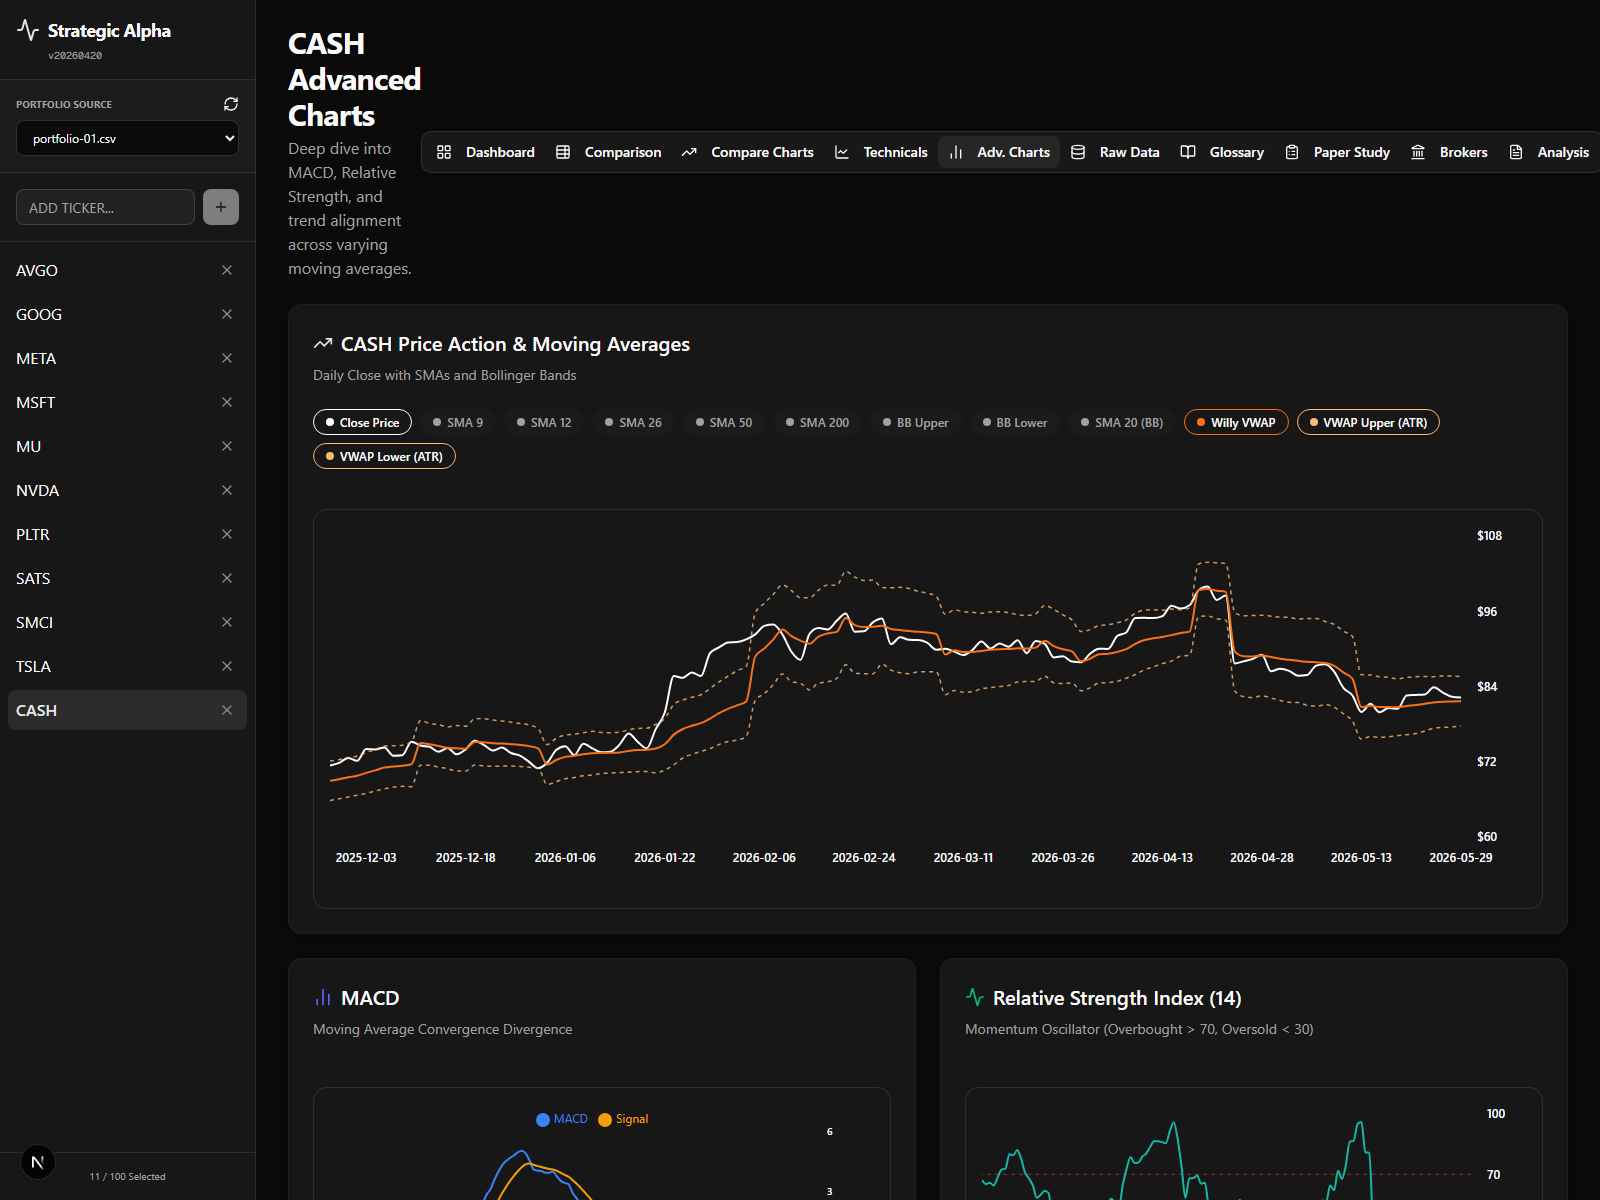
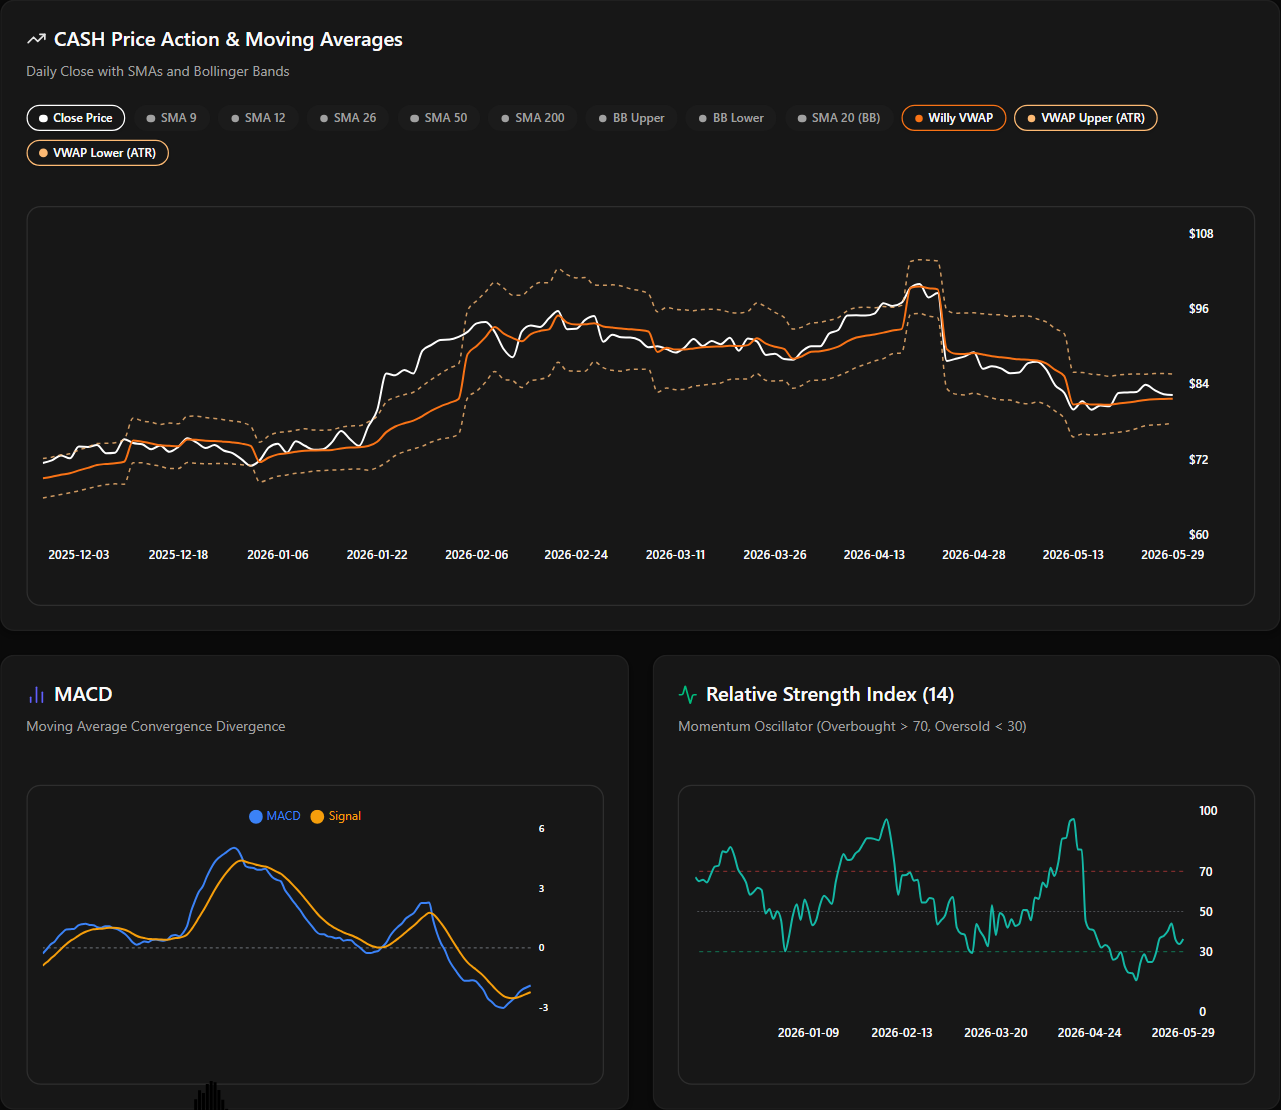
feat(analysis): implement Save Report to Markdown and optimize Playwright screenshots zoom and selector

diff --git a/frontend/src/components/AnalysisPanel.tsx b/frontend/src/components/AnalysisPanel.tsx
@@ -5,7 +5,7 @@ import { API_BASE_URL } from '@/lib/api';
 import { 
     Loader2, Play, CheckCircle, RefreshCw, AlertTriangle, 
     TrendingUp, TrendingDown, Info, Maximize2, X, ClipboardList,
-    Layers, LayoutList, Calendar, CheckSquare
+    Layers, LayoutList, Calendar, CheckSquare, FileText
 } from 'lucide-react';
 import { StockAnalysisItem, PortfolioAnalysisResponse } from '@/lib/types';
 
@@ -21,9 +21,54 @@ export function AnalysisPanel() {
     const [imageSalt, setImageSalt] = useState<number>(0);
     const [imageStatus, setImageStatus] = useState<Record<string, 'loading' | 'loaded' | 'error'>>({});
 
+    // Save report states
+    const [showSaveModal, setShowSaveModal] = useState<boolean>(false);
+    const [saveFilename, setSaveFilename] = useState<string>('Portfolio_Analysis_Report.md');
+    const [savingReport, setSavingReport] = useState<boolean>(false);
+    const [toastMessage, setToastMessage] = useState<{ text: string; type: 'success' | 'error' } | null>(null);
+
     useEffect(() => {
         setImageStatus({});
     }, [imageSalt, analysisData]);
+
+    useEffect(() => {
+        if (toastMessage) {
+            const timer = setTimeout(() => setToastMessage(null), 4000);
+            return () => clearTimeout(timer);
+        }
+    }, [toastMessage]);
+
+    const handleSaveReport = async () => {
+        try {
+            setSavingReport(true);
+            let finalFilename = saveFilename.trim();
+            if (!finalFilename.toLowerCase().endsWith('.md')) {
+                finalFilename += '.md';
+            }
+
+            const res = await fetch(`${API_BASE_URL}/api/save-analysis-report`, {
+                method: 'POST',
+                headers: {
+                    'Content-Type': 'application/json',
+                },
+                body: JSON.stringify({ filename: finalFilename }),
+            });
+
+            if (res.ok) {
+                const data = await res.json();
+                setToastMessage({ text: data.message || `Saved to ${finalFilename}`, type: 'success' });
+                setShowSaveModal(false);
+            } else {
+                const errData = await res.json();
+                setToastMessage({ text: errData.detail || 'Failed to save analysis report.', type: 'error' });
+            }
+        } catch (err) {
+            console.error("Error saving report", err);
+            setToastMessage({ text: 'Network error or server down.', type: 'error' });
+        } finally {
+            setSavingReport(false);
+        }
+    };
 
     const timerRef = useRef<NodeJS.Timeout | null>(null);
     const pollRef = useRef<NodeJS.Timeout | null>(null);
@@ -218,6 +263,20 @@ export function AnalysisPanel() {
                                 <Loader2 className="w-3.5 h-3.5 animate-spin text-cyan-500" />
                                 Elapsed: {elapsedTime}s
                             </div>
+                        )}
+                        {analysisData && !loading && (
+                            <Button 
+                                variant="outline"
+                                className="h-10 px-4 border-cyan-500/30 bg-cyan-500/5 hover:bg-cyan-500/10 text-cyan-400 hover:text-cyan-300 font-semibold transition-all duration-300 flex items-center gap-2"
+                                onClick={() => {
+                                    const base = selectedFile.replace(/\.csv$/, '');
+                                    setSaveFilename(`${base}_Analysis_Report.md`);
+                                    setShowSaveModal(true);
+                                }}
+                            >
+                                <FileText className="w-4 h-4" />
+                                Save Report
+                            </Button>
                         )}
                         <Button 
                             variant="default"
@@ -468,6 +527,91 @@ export function AnalysisPanel() {
                                 className="max-w-full max-h-[75vh] object-contain"
                             />
                         </div>
+                    </div>
+                </div>
+            )}
+
+            {/* Save Report Modal */}
+            {showSaveModal && (
+                <div className="fixed inset-0 z-[110] flex items-center justify-center bg-black/70 backdrop-blur-sm transition-all duration-300">
+                    <Card className="w-full max-w-md border border-border bg-card/95 shadow-2xl backdrop-blur-lg animate-in fade-in zoom-in-95 duration-200">
+                        <CardHeader className="pb-4">
+                            <CardTitle className="text-lg font-bold flex items-center gap-2">
+                                <FileText className="w-5 h-5 text-cyan-500" />
+                                Save Analysis Report
+                            </CardTitle>
+                            <CardDescription>
+                                Specify the filename to export the technical analysis report as Markdown.
+                            </CardDescription>
+                        </CardHeader>
+                        <CardContent className="space-y-4">
+                            <div className="space-y-2">
+                                <label className="text-xs text-muted-foreground font-semibold">Output Filename</label>
+                                <input 
+                                    type="text" 
+                                    value={saveFilename}
+                                    onChange={(e) => setSaveFilename(e.target.value)}
+                                    className="w-full h-10 px-3 rounded-lg border border-border bg-background/50 text-sm focus:outline-none focus:ring-1 focus:ring-cyan-500 text-foreground font-mono"
+                                    placeholder="portfolio_report.md"
+                                    autoFocus
+                                />
+                                <p className="text-[10px] text-muted-foreground">
+                                    The report will be saved inside the project's base directory with Action Matrix and local chart image references.
+                                </p>
+                            </div>
+
+                            <div className="flex justify-end gap-3 pt-2">
+                                <Button 
+                                    variant="ghost"
+                                    onClick={() => setShowSaveModal(false)}
+                                    disabled={savingReport}
+                                    className="h-10 hover:bg-muted text-muted-foreground hover:text-foreground"
+                                >
+                                    Cancel
+                                </Button>
+                                <Button 
+                                    variant="default"
+                                    className="h-10 bg-cyan-600 hover:bg-cyan-500 text-white font-semibold flex items-center gap-2"
+                                    onClick={handleSaveReport}
+                                    disabled={savingReport || !saveFilename.trim()}
+                                >
+                                    {savingReport ? (
+                                        <>
+                                            <Loader2 className="w-4 h-4 animate-spin" />
+                                            Saving...
+                                        </>
+                                    ) : (
+                                        'Save File'
+                                    )}
+                                </Button>
+                            </div>
+                        </CardContent>
+                    </Card>
+                </div>
+            )}
+
+            {/* Custom Premium Toast */}
+            {toastMessage && (
+                <div className="fixed top-6 right-6 z-[120] animate-in slide-in-from-top-5 duration-300">
+                    <div className={`flex items-center gap-3 px-4 py-3 rounded-xl border shadow-xl backdrop-blur-md font-medium text-sm transition-all duration-300 ${
+                        toastMessage.type === 'success' 
+                            ? 'bg-green-950/80 text-green-400 border-green-500/30 shadow-green-500/5' 
+                            : 'bg-red-950/80 text-red-400 border-red-500/30 shadow-red-500/5'
+                    }`}>
+                        {toastMessage.type === 'success' ? (
+                            <CheckCircle className="w-5 h-5 text-green-400" />
+                        ) : (
+                            <AlertTriangle className="w-5 h-5 text-red-400" />
+                        )}
+                        <span>{toastMessage.text}</span>
+                        <Button 
+                            variant="ghost" 
+                            size="icon" 
+                            className="w-5 h-5 rounded-full text-current hover:bg-white/10 p-0 ml-1"
+                            onClick={() => setToastMessage(null)}
+                        >
+                            <X className="w-3 h-3" />
+                        </Button>
                     </div>
                 </div>
             )}

diff --git a/take_screenshots.js b/take_screenshots.js
@@ -10,10 +10,10 @@ const delay = ms => new Promise(resolve => setTimeout(resolve, ms));
     fs.mkdirSync(outputDir, { recursive: true });
   }
 
-  console.log('Launching browser...');
+  console.log('Launching browser with native 80% window zoom...');
   const browser = await puppeteer.launch({
     headless: true,
-    args: ['--no-sandbox', '--disable-setuid-sandbox']
+    args: ['--no-sandbox', '--disable-setuid-sandbox', '--force-device-scale-factor=0.8']
   });
 
   const page = await browser.newPage();
@@ -136,15 +136,20 @@ const delay = ms => new Promise(resolve => setTimeout(resolve, ms));
       await targetEl.click();
       await delay(4000); // Wait for API and chart lines to render
 
-      // Find the card element for Advanced Charts and take an element screenshot
+      // Find the container element for all Advanced Charts and take an element screenshot
       const cards = await page.$$('div');
       let chartCard = null;
       for (const card of cards) {
         try {
-          const hasTitle = await page.evaluate(element => {
-            return element.innerText && element.innerText.includes('Price Action & Moving Averages');
+          const isTarget = await page.evaluate(element => {
+            const className = element.className || '';
+            const text = element.innerText || '';
+            return className.includes('space-y-6') && 
+                   !className.includes('max-w-7xl') && 
+                   text.includes('Price Action & Moving Averages') && 
+                   text.includes('MACD');
           }, card);
-          if (hasTitle) {
+          if (isTarget) {
             chartCard = card;
             break;
           }

diff --git a/backend/main.py b/backend/main.py
@@ -3,7 +3,7 @@ from typing import List
 from datetime import datetime
 from fastapi.middleware.cors import CORSMiddleware
 from pydantic import BaseModel
-from models import TickerAnalysis, HistoryResponse, HoldingModel, IBOrderModel, TransactionModel, TransactionResponse, PortfolioSummaryResponse, StockAnalysisItem, PortfolioAnalysisResponse
+from models import TickerAnalysis, HistoryResponse, HoldingModel, IBOrderModel, TransactionModel, TransactionResponse, PortfolioSummaryResponse, StockAnalysisItem, PortfolioAnalysisResponse, SaveReportRequest
 from services.strategy_engine import run_all_strategies
 from services.history_client import fetch_batch_history
 from services.ib_client import IBClient
@@ -566,4 +566,103 @@ def get_last_analysis() -> PortfolioAnalysisResponse:
         items=[],
         status="idle"
     )
+
+@app.post("/api/save-analysis-report")
+def save_analysis_report(req: SaveReportRequest):
+    # 1. Prevent Path Traversal and ensure file extension is .md
+    safe_filename = os.path.basename(req.filename)
+    if not safe_filename.endswith(".md"):
+        safe_filename += ".md"
+    
+    # 2. Check if we have last analysis
+    last_analysis_path = os.path.join(BASE_DIR, "last_analysis.json")
+    if not os.path.exists(last_analysis_path):
+        raise HTTPException(status_code=404, detail="No active analysis data found. Run Live Analysis first.")
+        
+    try:
+        with open(last_analysis_path, "r", encoding="utf-8") as f:
+            data = json.load(f)
+            portfolio_data = PortfolioAnalysisResponse(**data)
+    except Exception as e:
+        raise HTTPException(status_code=500, detail=f"Failed to read analysis data: {str(e)}")
+        
+    if not portfolio_data.items:
+        raise HTTPException(status_code=400, detail="Analysis data is empty. Run Live Analysis first.")
+        
+    # 3. Build Markdown content
+    timestamp = datetime.now().strftime("%Y-%m-%d %H:%M:%S")
+    md = []
+    md.append(f"# Strategic Alpha Portfolio Analysis Report")
+    md.append("")
+    md.append(f"- **Generated:** {timestamp}")
+    md.append(f"- **Source Portfolio:** `{portfolio_data.filename}`")
+    md.append("")
+    md.append("## Executive Summary")
+    md.append("")
+    
+    # Calculate stats
+    total_tickers = len(portfolio_data.items)
+    buys = sum(1 for item in portfolio_data.items if "BUY" in item.recommendation.upper())
+    sells = sum(1 for item in portfolio_data.items if "SELL" in item.recommendation.upper())
+    holds = total_tickers - buys - sells
+    
+    md.append(f"- **Total Tickers Analyzed:** {total_tickers}")
+    md.append(f"- **BUY / ACCUMULATE Recommendations:** {buys}")
+    md.append(f"- **SELL / TAKE PROFITS Recommendations:** {sells}")
+    md.append(f"- **HOLD / WATCH Recommendations:** {holds}")
+    md.append("")
+    
+    # 4. Action Matrix Table
+    md.append("## Action Matrix Table")
+    md.append("")
+    md.append("| Ticker | Current Price ($) | Willy VWAP Support ($) | ATR Lower Support ($) | ATR Upper Resistance ($) | Posture | Recommendation |")
+    md.append("| :--- | :---: | :---: | :---: | :---: | :--- | :--- |")
+    for item in portfolio_data.items:
+        md.append(f"| **{item.symbol}** | {item.close:.2f} | {item.willy_vwap:.2f} | {item.vwap_lower:.2f} | {item.vwap_upper:.2f} | {item.posture} | **{item.recommendation}** |")
+    md.append("")
+    
+    # 5. Detailed Ticker Justifications & Charts
+    md.append("## Detailed Technical Justifications")
+    md.append("")
+    
+    # Relative path from base dir to images: frontend/public/images_advanced/
+    for item in portfolio_data.items:
+        md.append(f"### {item.symbol} - {item.recommendation}")
+        md.append("")
+        md.append(f"- **Current Close Price:** ${item.close:.2f}")
+        md.append(f"- **Willy VWAP Dynamic Support:** ${item.willy_vwap:.2f}")
+        md.append(f"- **ATR Boundary Envelope:** ${item.vwap_lower:.2f} (Lower Support) to ${item.vwap_upper:.2f} (Upper Resistance)")
+        md.append(f"- **Technical Posture:** {item.posture}")
+        md.append("")
+        md.append("#### Justification Bulletins:")
+        for detail in item.details:
+            md.append(f"- {detail}")
+        md.append("")
+        
+        # Verify if chart image exists
+        image_name = f"{item.symbol}_advanced_chart.png"
+        image_rel_path = os.path.join("frontend", "public", "images_advanced", image_name)
+        image_abs_path = os.path.join(BASE_DIR, image_rel_path)
+        
+        # Render dynamic screenshot
+        md.append("#### Technical Analysis Chart")
+        md.append("")
+        if os.path.exists(image_abs_path):
+            md.append(f"![{item.symbol} Technical Chart](frontend/public/images_advanced/{image_name})")
+        else:
+            md.append("> *Note: Chart screenshot generation is in progress or unavailable for this ticker.*")
+        md.append("")
+        md.append("---")
+        md.append("")
+        
+    markdown_content = "\n".join(md)
+    
+    # 6. Write Markdown file to base directory
+    output_path = os.path.join(BASE_DIR, safe_filename)
+    try:
+        with open(output_path, "w", encoding="utf-8") as f:
+            f.write(markdown_content)
+        return {"status": "success", "message": f"Successfully saved analysis report to {safe_filename}", "filepath": output_path}
+    except Exception as e:
+        raise HTTPException(status_code=500, detail=f"Failed to write markdown report: {str(e)}")
 

diff --git a/take_screenshots.py b/take_screenshots.py
@@ -16,8 +16,11 @@ def main():
     os.makedirs(output_dir, exist_ok=True)
     
     with sync_playwright() as p:
-        print("Launching browser...")
-        browser = p.chromium.launch(headless=True)
+        print("Launching browser with native 80% window zoom...")
+        browser = p.chromium.launch(
+            headless=True,
+            args=["--force-device-scale-factor=0.8", "--no-sandbox", "--disable-setuid-sandbox"]
+        )
         page = browser.new_page()
         page.set_viewport_size({"width": 1600, "height": 1200})
         
@@ -134,15 +137,17 @@ def main():
                 target_el.click()
                 time.sleep(5) # Wait for API and recharts animation
                 
-                # Find the card element for Advanced Charts and take screenshot
+                # Find the container for all Advanced Charts (Price Action + MACD + RSI) and take screenshot
                 all_divs = page.query_selector_all("div")
                 chart_card = None
                 for div in all_divs:
                     try:
-                        inner_text = div.inner_text() or ""
-                        if "Price Action & Moving Averages" in inner_text and ("Daily Close with SMAs" in inner_text or "Close Price" in inner_text):
-                            chart_card = div
-                            break
+                        class_name = div.get_attribute("class") or ""
+                        if "space-y-6" in class_name and "max-w-7xl" not in class_name:
+                            inner_text = div.inner_text() or ""
+                            if "Price Action & Moving Averages" in inner_text and "MACD" in inner_text:
+                                chart_card = div
+                                break
                     except Exception:
                         pass
                         

diff --git a/backend/models.py b/backend/models.py
@@ -123,3 +123,6 @@ class PortfolioAnalysisResponse(BaseModel):
     filename: str
     items: List[StockAnalysisItem]
     status: str
+
+class SaveReportRequest(BaseModel):
+    filename: str
